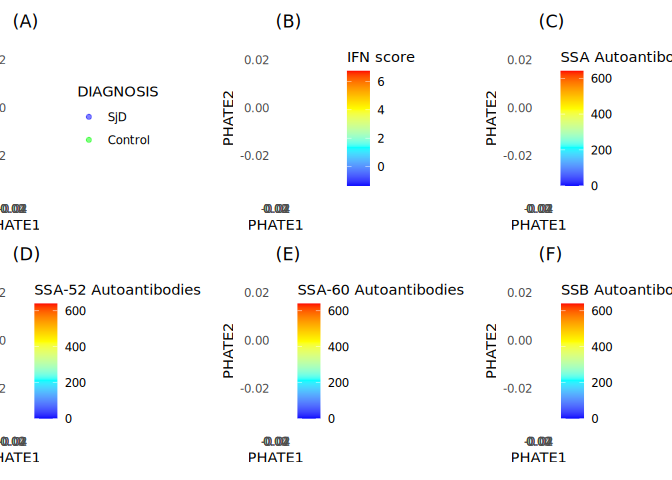
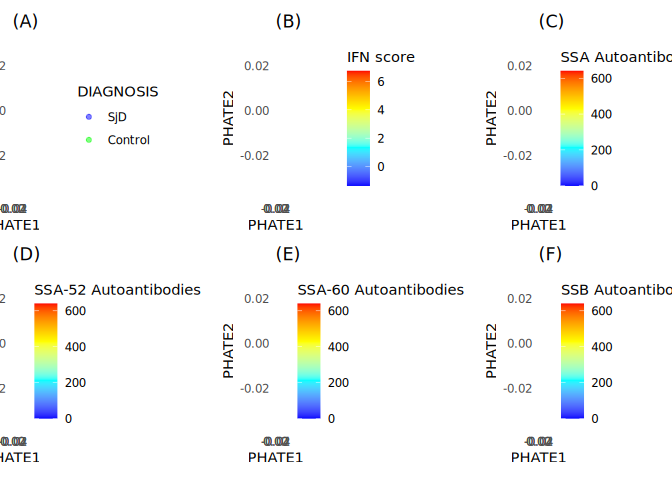
quarto run

diff --git a/docs/TUTORIAL.md b/docs/TUTORIAL.md
@@ -514,9 +514,6 @@ the number of clusters, computed within each method.
 ## GEDO :
 
 ``` r
-#| fig.width: 12
-#| fig.height: 6
-#| fig.align: "center"
 use_python("/usr/bin/python3", required = TRUE)
 plot_gedo= plot_phate(data=matrix_list$GEDO$module_matrix, k = 15, meta_data = PS_brutes)
 print(plot_gedo)
@@ -538,9 +535,6 @@ autoantibodies, (F) Quantification of SSB autoantibodies.
 ## GEDOcorr :
 
 ``` r
-#| fig.width: 12
-#| fig.height: 6
-#| fig.align: "center"
 use_python("/usr/bin/python3", required = TRUE)
 plot_gedo_corr= plot_phate(data=matrix_list$GEDOcorr$module_matrix, k = 15, meta_data = PS_brutes)
 print(plot_gedo_corr)
@@ -568,9 +562,7 @@ plot_umap_gedo= plot_phate(data=matrix_list$UMAP_GEDO$module_matrix, k = 15, met
 print(plot_umap_gedo)
 ```
 
-<img
-src="compute_GEDO_files/figure-commonmark/phate%20umap%20gedo-1.png"
-data-fig-align="center" />
+![](compute_GEDO_files/figure-commonmark/phate%20umap%20gedo-1.png)
 
 ``` r
 ggsave(plot_umap_gedo,file=paste0(folder_for_res,"phate_clinical_features_umap_gedo.pdf"), width = 20, height = 10)
@@ -586,9 +578,6 @@ autoantibodies, (F) Quantification of SSB autoantibodies.
 ## PCA1 :
 
 ``` r
-#| fig.width: 12
-#| fig.height: 6
-#| fig.align: "center"
 use_python("/usr/bin/python3", required = TRUE)
 
 plot_pca1= plot_phate(data=matrix_list$PCA1$module_matrix, k = 15, meta_data = PS_brutes)
@@ -611,9 +600,6 @@ autoantibodies, (F) Quantification of SSB autoantibodies.
 ## MEAN OF Z-SCORES :
 
 ``` r
-#| fig.width: 12
-#| fig.height: 6
-#| fig.align: "center"
 use_python("/usr/bin/python3", required = TRUE)
 plot_mean_zscore= plot_phate(data=matrix_list$MEAN_Z_SCORES$module_matrix, k = 15, meta_data = PS_brutes)
 print(plot_mean_zscore)
